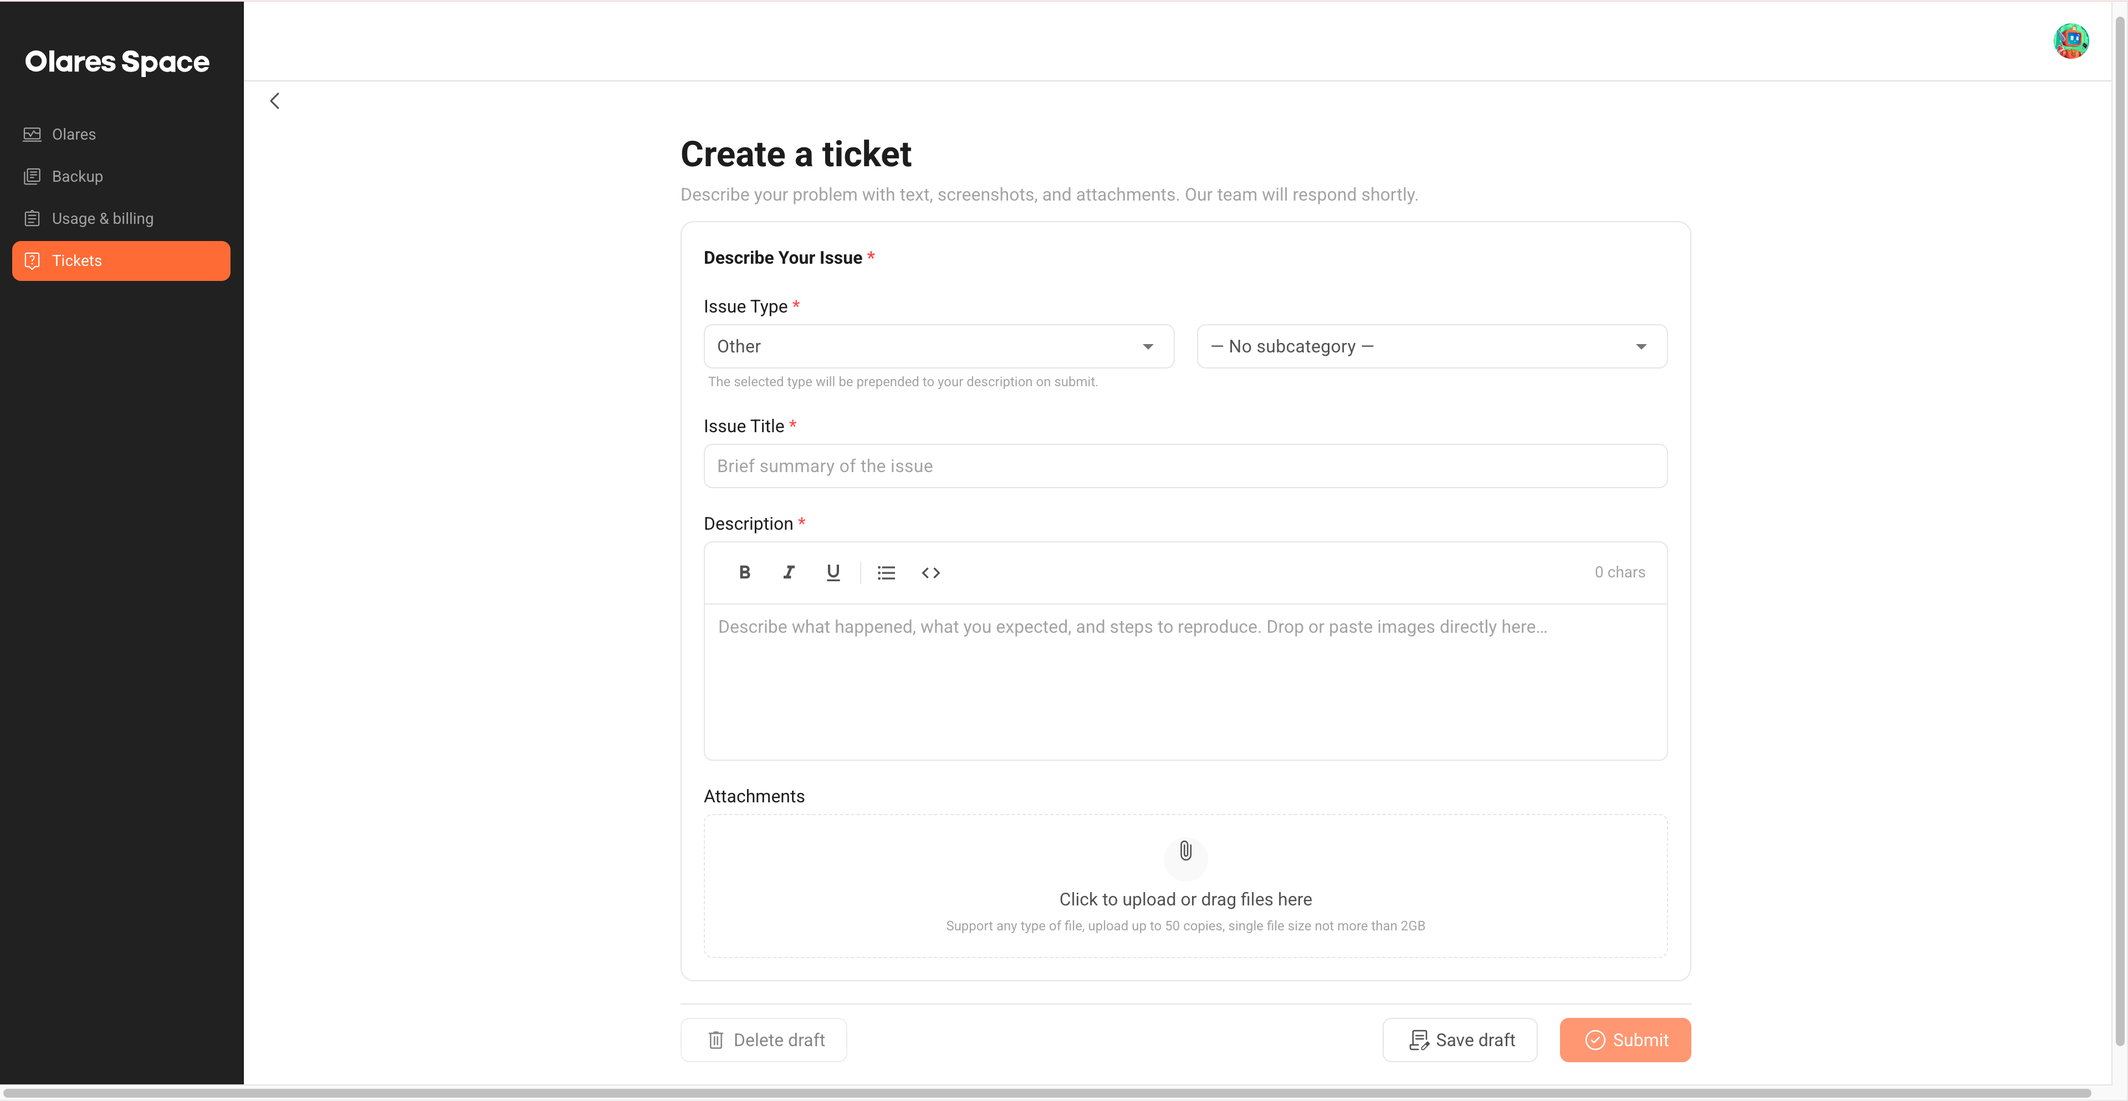
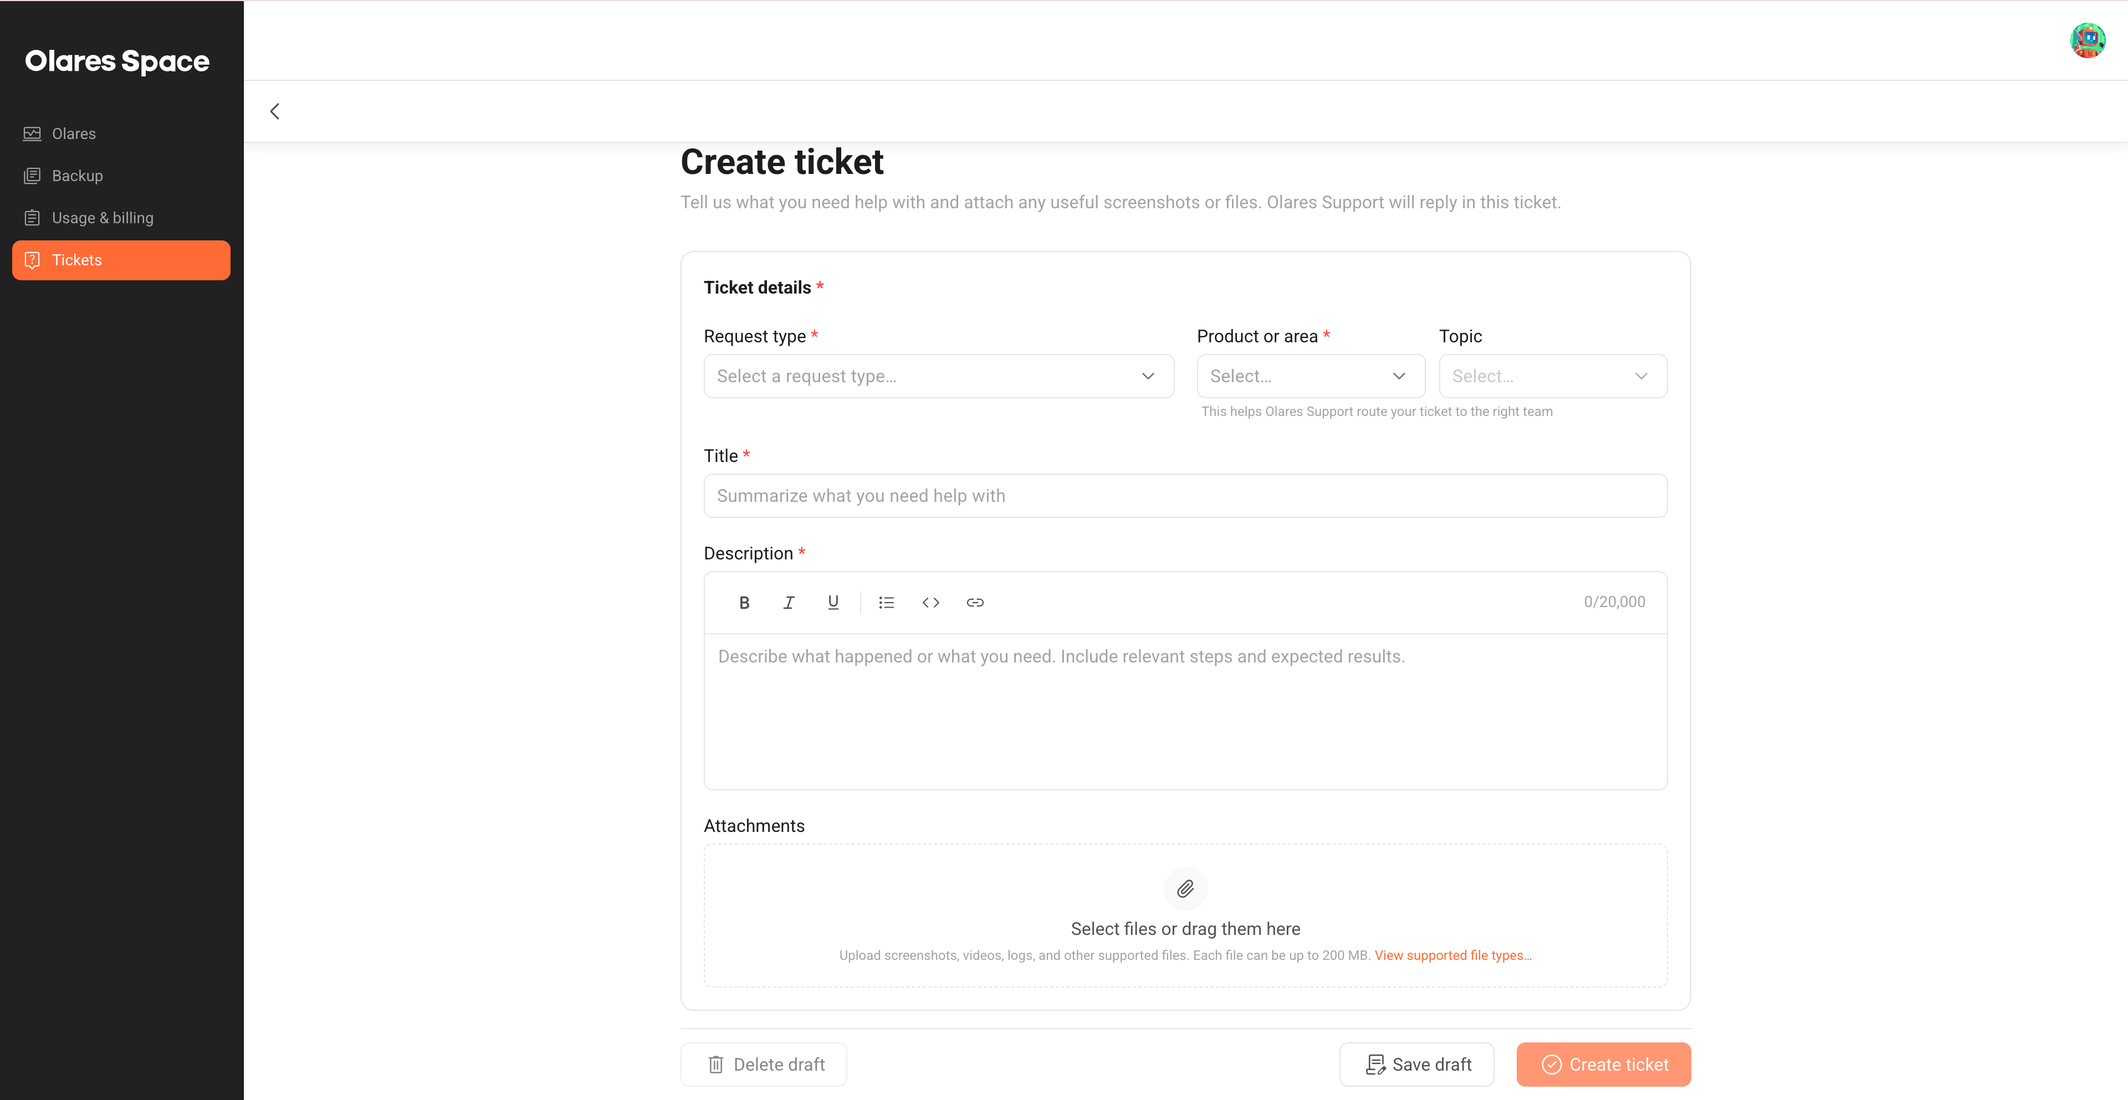
align ZH

diff --git a/docs/zh/manual/space/tickets.md b/docs/zh/manual/space/tickets.md
@@ -1,18 +1,14 @@
 ---
 outline: [2, 3]
-description: 在 Olares Space 提交支持工单、使用 olares-cli 上传日志，并管理你的支持请求。
+description: 在 Olares Space 提交支持工单、使用 Olares CLI 上传日志，并管理你的支持请求。
 head:
   - - meta
     - name: keywords
-      content: Olares, Olares Space, tickets, 工单, 支持, olares-cli, 日志
+      content: Olares, Olares Space, tickets, 工单, 支持, Olares CLI, 日志
 ---
-# 在 Olares Space 管理支持工单
+# 在 Olares Space 中创建和管理支持工单
 
-:::warning
-当前文档由 AI 翻译生成，若发现术语或表述不准确，请查看[英文原文](../../../manual/space/tickets.md)。
-:::
-
-使用 Olares Space 的 **Tickets** 页面报告问题、寻求帮助并跟踪支持请求的状态。
+使用 Olares Space 的**工单**页面报告问题、寻求帮助并跟踪支持请求的状态。
 
 ## 创建工单
 
@@ -20,47 +16,50 @@ head:
 
 ### 手动创建工单
 
-通过网页表单提交新的支持请求。描述你的问题，并附加截图、导出的系统日志或其他文件，帮助支持团队更快地诊断和解决问题。
+通过网页表单提交新的支持请求。描述你的问题，并附加截图、导出的系统日志或其他文件，帮助 Olares 支持团队更快地诊断和解决问题。
 
 :::tip 提前准备系统日志
-如需附加系统日志，请先从 Olares **设置 > 高级 > 导出系统日志**导出。导出所需时间取决于日志量大小。有关详细说明，请参阅[导出系统日志](../olares/settings/developer.md#导出系统日志)。
+如需附加系统日志，请先从 Olares **设置 > 高级 > 导出系统日志**导出。导出所需时间取决于日志量大小。详细步骤参阅[导出系统日志](../olares/settings/developer.md#导出系统日志)。
 :::
 
-1. [登录 Olares Space](manage-accounts.md#log-in-to-olares-space)。
-2. 在左侧边栏中，点击 **Tickets**。
-3. 点击 **+ New ticket**。
+1. 在浏览器中打开 [Olares Space](https://space.olares.com/)，使用 LarePass 扫描二维码登录。
+2. 在左侧边栏中，选择**工单**。
+3. 点击 **+ 新建工单**，然后填写工单详情：
 
-   ![在 Olares Space 创建工单](/images/how-to/space/create_ticket.png#bordered)
+   ![在 Olares Space 创建工单](/images/zh/manual/space/create_ticket.png#bordered)
 
-4. 填写表单：
-   - **Issue Type**：选择与问题最匹配的类别。
-   - **Subcategory**：可选。选择更具体的子类别。
-   - **Issue Title**：输入问题的简短摘要。
-   - **Description**：描述问题、触发条件以及复现步骤。可以使用工具栏设置文本格式，也可以直接粘贴或拖拽图片到编辑器中。
-   - **Attachments**：可选。点击上传区域或拖拽文件到该区域。最多可附加 50 个文件，单个文件不超过 2 GB。
-5. 在表单底部，选择一个操作：
-   - **Submit**：将工单发送给支持团队。
-   - **Save draft**：保存当前进度，暂不提交。
-   - **Delete draft**：删除当前草稿。
+   - **工单类型**：选择与问题最匹配的请求类型。
+   - **产品或功能**：选择与问题相关的产品或区域。
+   - **具体问题**：可选。选择更具体的主题。
+   - **标题**：输入问题的简短摘要。
+   - **问题描述**：详细描述问题，包括触发原因、复现步骤以及你期望的结果。
+   - **附件**（可选）：点击上传区域或拖拽文件到该区域。
 
-### 使用 olares-cli 自动创建工单
+4. 在表单底部，选择一个操作：
+   - **新建工单**：将工单发送给支持团队。
+   - **保存草稿**：保存当前进度，暂不提交。
+   - **删除草稿**：删除当前草稿。
+
+### 通过 Olares CLI 自动创建工单
 
 直接从 Olares 设备上传系统日志。系统会自动创建工单并附加收集到的日志。
 
-1. 在 **Tickets** 页面，点击 **+ New ticket** 旁边的 <i class="material-symbols-outlined">terminal</i>。
-2. 在 **Upload logs via olares-cli** 窗口中，复制 **Full command line**。
+1. 在**工单**页面，点击 **+ 新建工单** 旁边的 <i class="material-symbols-outlined">terminal</i>。
+
+   ![使用 Olares CLI 上传日志](/images/zh/manual/space/upload-log-cli.png#bordered)
+
+2. 在**使用 Olares CLI 上传日志**窗口中，复制**命令**。
 
    :::info 验证码
-   验证码有效期有限，倒计时结束后会自动刷新。请在验证码过期前复制完整的命令行。
+   验证码有效期有限，倒计时结束后会自动刷新。请在验证码过期前复制命令。
    :::
 
-   ![上传日志对话框](/images/how-to/space/upload_logs_window.png#bordered){width=60%}
+   ![上传日志对话框](/images/zh/manual/space/upload_logs_window.png#bordered){width=60%}
 
 3. 访问 Olares 设备上的终端。根据你的环境选择合适的方式：
-   - [通过 Control Hub 访问终端](/one/access-terminal-control-hub.md)：在浏览器中使用网页终端。
+   - [通过控制面板访问终端](/one/access-terminal-control-hub.md)：在浏览器中使用网页终端。
    - [通过 SSH 访问](/one/access-terminal-ssh.md)：从你的电脑通过网络连接。
    - [直接物理访问](/one/access-physical-console.md)：在设备上直接登录。
-
 4. 运行从窗口中复制的命令：
 
    ```bash
@@ -70,71 +69,71 @@ head:
    示例：
 
    ```bash
-   sudo olares-cli logs upload --code 75753956 --olares-id laresprime@olares.com
+   sudo olares-cli logs upload --code 37116007 --olares-id laresprime@olares.com
    ```
 
-5. 命令执行完成后，会创建一个附带日志的工单。记下工单编号以便后续跟进。
+5. 命令执行完成后，会创建一个附带日志的工单。记下工单编号以便后续跟进，例如 `TKT-10306`。
 
-   以下示例展示在 Control Hub 的 Terminal 中运行命令：
+   以下示例展示在控制面板的终端中运行命令：
 
-   ![使用 olares-cli 上传日志](/images/how-to/space/cli-upload-log.png#bordered)
+   ![使用 olares-cli 上传日志](/images/zh/manual/space/cli-upload-log.png#bordered)
 
-6. 返回 Olares Space 并打开 **Tickets** 页面。
-7. 找到你在第 5 步中记下的工单编号对应的工单。该工单名为 **Olares CLI logs {creation-date}**，状态为 **Open**。 
+6. 返回**工单**页面，找到你在第 5 步中记下的工单编号对应的工单。该工单名为 **Olares CLI logs {creation-date}**，状态为**待处理**。
 
-   ![CLI 日志工单](/images/how-to/space/cli-logs-ticket.png#bordered)
+   ![Olares CLI 日志工单](/images/zh/manual/space/cli-logs-ticket.png#bordered)
 
 ## 管理工单
 
-使用工单列表跟踪现有支持请求的状态和详情，并根据需要进行更新。
+提交工单后，你可以追踪进度、查看 Olares 支持团队的回复，并通过回复沟通以及时解决问题。
 
 ### 查看工单
 
-1. 要查看所有工单，打开 **Tickets** 页面。列表会显示每个工单的标题、状态、工单编号、问题类型和创建时间。
-2. 要按状态筛选工单，点击列表上方的状态下拉列表，然后选择一个状态：
+1. 要查看所有工单，打开**工单**页面。列表会显示每个工单的标题、状态、工单编号、工单类型和创建时间。
+2. 点击目标工单打开详情页，查看 Olares 支持团队的回复。
+3. 使用状态下拉列表筛选工单：
 
-   - **All**：所有工单。
-   - **Draft**：已保存但未提交的工单。
-   - **Open**：等待首次回复的工单。
-   - **In progress**：支持团队正在处理的工单。
-   - **Resolved**：已解决的工单。
-   - **Closed**：已关闭的工单。
+   - **全部**：所有工单。
+   - **草稿**：已保存但未提交的工单。
+   - **待处理**：等待首次回复的工单。
+   - **处理中**：Olares 支持团队正在处理的工单。
+   - **已解决**：已解决的工单。
+   - **已关闭**：已关闭的工单。
 
 ### 回复工单
 
-通过回复补充更多详情、回答问题或提供最新进展。
+通过回复与 Olares 支持团队沟通、补充详情、提供最新进展或询问后续问题。
 
-1. 在 **Tickets** 页面，点击要更新的工单。
-2. 在工单详情页底部，点击 **Add a Reply**。
-3. 在 **Add a Reply** 对话框中，在 **Description** 字段输入你的消息。你也可以附加文件。
-4. 点击 **Send reply**。
+1. 在**工单**页面，点击目标工单。
+2. 在工单详情页底部，点击**添加消息**。
+3. 在**新消息**面板中，输入消息内容，并根据需要附加文件。
+4. 点击**发送消息**。
 
 ### 关闭或解决工单
 
-当问题已解决或不再需要跟进时，将工单标记为 **Resolved** 或 **Closed**：
+当问题已解决或不再需要跟进时，将工单标记为 **已解决** 或 **关闭**：
 
 1. 打开工单详情页。
-2. 在页面底部点击 **Resolved** 或 **Close**。
+2. 在页面底部点击**标记为已解决**或**关闭工单**。
 
 ### 重新打开工单
 
-如果问题再次出现或未完全修复，你可以重新打开 **Closed** 或 **Resolved** 状态的工单：
+如果问题再次出现或未完全修复，你可以重新打开**已关闭**或**已解决**状态的工单：
 
 1. 打开工单详情页。
-2. 在页面底部点击 **Reopen**。
+2. 在页面底部点击**重新打开工单**。
 3. 添加回复，说明重新打开的原因。
 
-工单状态会变回 **In progress**，支持团队将继续处理。
+工单状态会变回**待处理**，Olares 支持团队将继续处理。
 
 ## 常见问题
 
 ### 工单与我的 Olares ID 有什么关系？
 
-Olares Space 的 **Tickets** 页面仅展示当前登录的 Olares ID 所创建的工单。要查看某个工单，请使用创建该工单时所用的 Olares ID 登录 Olares Space。
+Olares Space 的**工单**页面仅展示当前登录的 Olares ID 所创建的工单。要查看某个工单，请使用创建该工单时所用的 Olares ID 登录 Olares Space。
 
 ### 提交工单后可以编辑吗？
 
-不可以。提交后无法编辑标题或描述。你只能通过添加回复来补充信息。
+不可以。提交后无法编辑标题或描述。你可以通过添加回复来补充信息。
 
 ### 可以删除工单吗？
 

diff --git a/docs/manual/space/tickets.md b/docs/manual/space/tickets.md
@@ -4,9 +4,9 @@ description: Submit support tickets, upload logs with olares-cli, and manage you
 head:
   - - meta
     - name: keywords
-      content: Olares, Olares Space, tickets, support, olares-cli, logs
+      content: Olares, Olares Space, tickets, support, Olares CLI, logs
 ---
-# Manage support tickets in Olares Space
+# Create and manage support tickets in Olares Space
 
 Use the Tickets page in Olares Space to report issues, ask for help, and track the status of your support requests.
 
@@ -16,36 +16,42 @@ Use one of the following methods to create a support ticket in Olares Space.
 
 ### Create a ticket manually
 
-Submit a new support request through the web form. Describe your issue, and attach screenshots, exported system logs, or other files to help the support team diagnose and resolve your issue faster.
+Submit a new support request through the web form. Describe your issue, and attach screenshots, exported system logs, or other files to help the Olares Support team diagnose and resolve your issue faster.
 
 :::tip Prepare system logs in advance
 If you want to attach system logs, export them first from Olares **Settings > Advanced > Export system logs**. The export might take some time depending on the amount of logs collected. For detailed instructions, see [Export system logs](../olares/settings/developer.md#export-system-logs).
 :::
 
-1. [Log in to Olares Space](manage-accounts.md#log-in-to-olares-space).
-2. On the left sidebar, click **Tickets**.
-3. Click **+ New ticket**.
+1. Open [Olares Space](https://space.olares.com/) in your browser, and scan the QR code using LarePass to log in.
+2. On the left sidebar, select **Tickets**.
+3. Click **+ Create ticket**, and then fill in the ticket details:
+
    ![Create a ticket in Olares Space](/images/how-to/space/create_ticket.png#bordered)
-4. Fill in the form:
-   - **Issue Type**: Select the category that best matches your issue.
-   - **Subcategory**: Optional. Select a more specific subcategory.
-   - **Issue Title**: Enter a short summary of the issue.
-   - **Description**: Describe the issue, what triggered it, and how to reproduce it. Use the toolbar to format text, and paste or drop images directly into the editor.
-   - **Attachments**: Optional. Click the upload area or drag files into it. You can attach up to 50 files, and each file can be up to 2 GB.
-5. At the bottom of the form, choose an action:
-   - **Submit**: Send the ticket to the support team.
+
+   - **Request type**: Select the type of request that best matches your issue.
+   - **Product or area**: Select the product or area related to your issue.
+   - **Topic**: Optional. Select a more specific topic.
+   - **Title**: Enter a short summary of the issue.
+   - **Description**: Describe the issue in detail, including what triggered it, how to reproduce it, and what you expected to happen.
+   - **Attachments**: Optional. Click the upload area or drag files into it.
+
+4. At the bottom of the form, choose an action:
+   - **Create ticket**: Send the ticket to the support team.
    - **Save draft**: Save your progress without submitting.
    - **Delete draft**: Remove the current draft.
 
-### Create a ticket automatically via olares-cli
+### Create a ticket automatically via Olares CLI
 
 Upload system logs directly from your Olares device. This creates a ticket automatically with the collected logs attached.
 
-1. On the **Tickets** page, click <i class="material-symbols-outlined">terminal</i> next to **+ New ticket**.
-2. In the **Upload logs via olares-cli** window, copy the **Full command line**.
+1. On the **Tickets** page, click <i class="material-symbols-outlined">terminal</i> next to **+ Create ticket**.
+
+   ![Upload logs with Olares CLI](/images/how-to/space/upload-log-cli.png#bordered)
+
+2. In the **Upload logs with Olares CLI** window, copy the **Command**.
 
    :::info Verification code
-   The verification code is valid for a limited time and refreshes automatically when the countdown ends. Copy the full command line before the code expires.
+   The verification code is valid for a limited time and refreshes automatically when the countdown ends. Copy the command before the code expires.
    :::
 
    ![Upload logs dialog](/images/how-to/space/upload_logs_window.png#bordered){width=60%}
@@ -63,60 +69,60 @@ Upload system logs directly from your Olares device. This creates a ticket autom
    Example:
 
    ```bash
-   sudo olares-cli logs upload --code 75753956 --olares-id laresprime@olares.com
+   sudo olares-cli logs upload --code 90341739 --olares-id laresprime@olares.com
    ```
 
-5. When the command finishes, it creates a ticket with your logs attached. Note the ticket number for follow-up.
+5. When the command finishes, it creates a ticket with your logs attached. Note the ticket number for follow-up, such as `TKT-10220`.
 
    The following example shows running the command in the terminal inside Control Hub:
 
    ![Upload logs using olares-cli](/images/how-to/space/cli-upload-log.png#bordered)
 
-6. Return to Olares Space and open the **Tickets** page.
-7. Find the ticket with the number you noted in Step 5. It is named **Olares CLI logs {creation-date}** and appears in the **Open** status.
+6. Return to the **Tickets** page, and find the ticket with the number you noted in Step 5. It is named **Olares CLI logs {creation-date}** and appears in the **Open** status.
 
    ![CLI logs ticket](/images/how-to/space/cli-logs-ticket.png#bordered)
 
 ## Manage tickets
 
-Use the ticket list to track the status and details of your existing support requests, and update tickets as needed.
+After submitting a ticket, you can track its progress, view replies from the Olares Support team, and communicate by replying to resolve the issue in a timely manner.
 
 ### View your tickets
 
-1. To view all your tickets, open the **Tickets** page. The list shows the title, status, ticket number, issue type, and creation time for each ticket.
-2. To filter tickets by status, click the status drop-down list and select a state:
+1. To view all your tickets, open the **Tickets** page. The list shows the title, status, ticket number, request type, and creation time for each ticket.
+2. Click a ticket to open its details page and view replies from the Olares Support team.
+3. To filter by status, select a state from the drop-down list:
    - **All**: Every ticket.
    - **Draft**: Tickets you saved but have not submitted yet.
    - **Open**: Tickets waiting for the first response.
-   - **In progress**: Tickets the support team is actively handling.
+   - **In progress**: Tickets actively being handled.
    - **Resolved**: Tickets that have been resolved.
    - **Closed**: Tickets that have been closed.
 
 ### Reply to a ticket
 
-Use replies to add more details, answer questions, or provide updates.
+Use replies to communicate with the Olares Support team, provide updates, or ask follow-up questions.
 
 1. On the **Tickets** page, click the ticket you want to update.
-2. Click **Add a Reply** at the bottom of the ticket details page.
-3. In the **Add a Reply** dialog, enter your message in the **Description** field. You can also attach files.
-4. Click **Send reply**.
+2. Click **Add message** at the bottom of the ticket details page.
+3. In the **New message** panel, enter your message and optionally attach files.
+4. Click **Send message**.
 
 ### Close or resolve a ticket
 
 When the issue is fixed or no longer needs follow-up, mark the ticket as **Resolved** or **Closed**:
 
 1. Open the ticket details page.
-2. Click **Resolved** or **Close** at the bottom of the page.
+2. Click **Mark as resolved** or **Close ticket** at the bottom of the page.
 
 ### Reopen a ticket
 
 You can reopen a **Closed** or **Resolved** ticket if the issue returns or was not fully fixed.
 
 1. Open the ticket details page.
-2. Click **Reopen** at the bottom of the page.
-3. Add a reply explaining why you are reopening it.
+2. Click **Reopen ticket** at the bottom of the page.
+3. Add a message explaining why you reopened it.
 
-The ticket status changes back to **In progress**, and the support team continues handling it.
+The ticket status changes back to **Open**, and the Olares Support team will continue to handle it.
 
 ## FAQs
 

diff --git a/docs/manual/help/request-technical-support.md b/docs/manual/help/request-technical-support.md
@@ -60,7 +60,7 @@ Create a ticket with details about your issue. The app can automatically collect
 
 ### Manage tickets
 
-After submitting a ticket, you can track its status, view replies from the Olares team, and continue the conversation by adding your own replies.
+After submitting a ticket, you can track its progress, view replies from the Olares team, and communicate by replying to resolve the issue in a timely manner.
 
 #### View ticket status
 
